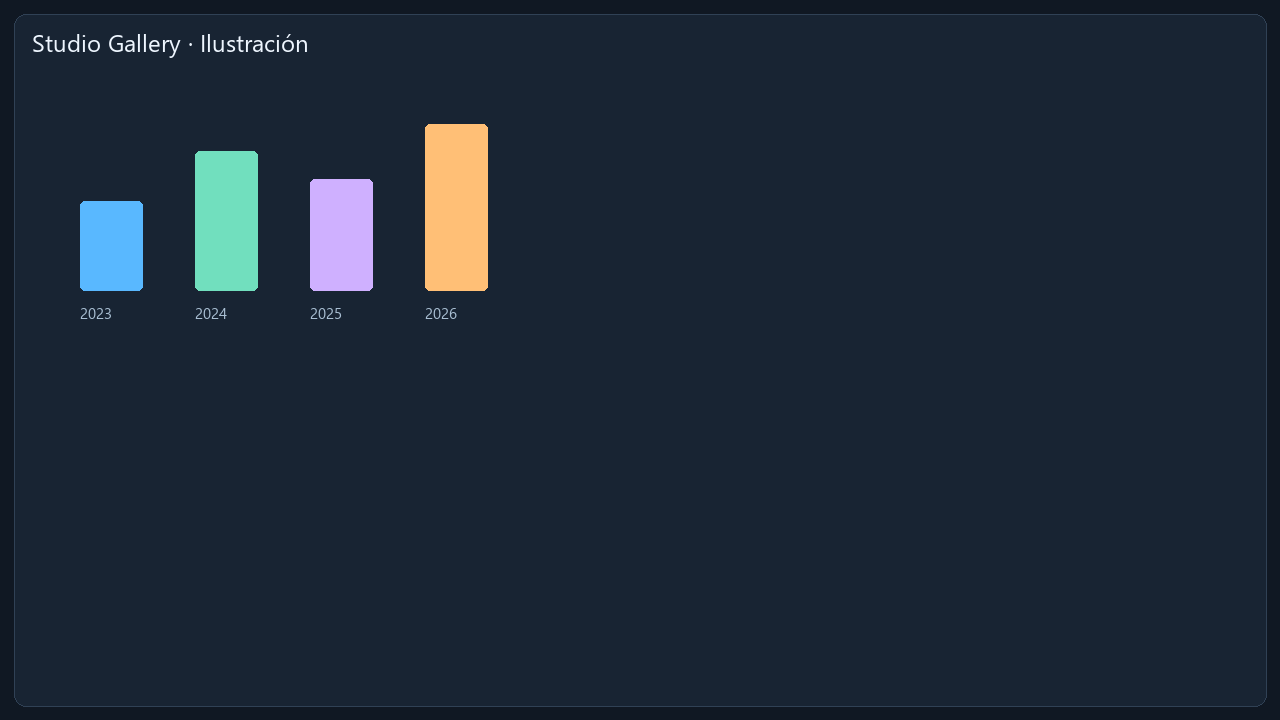
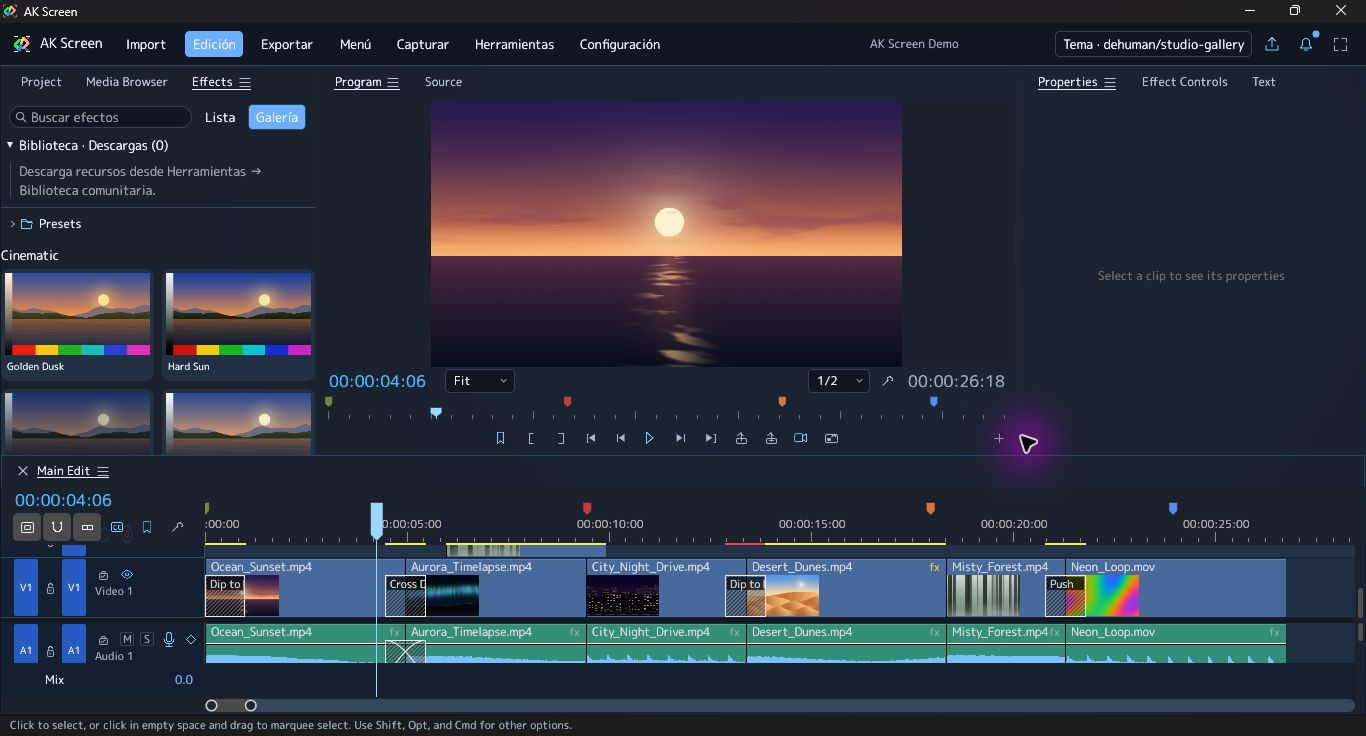
Show real Windows 2.4 screenshot for Studio Gallery

diff --git a/themes/dehuman/studio-gallery/README.md b/themes/dehuman/studio-gallery/README.md
@@ -1,0 +1,13 @@
+# Studio Gallery
+
+Tema de dehuman para AK Screen 2.4.0. La imagen siguiente es una **captura real de la aplicación instalada en Windows**, con medios de demostración generados por el editor.
+
+![Studio Gallery en AK Screen 2.4.0](preview.png)
+
+Incluye 47 colores, 11 medidas, disposición de composición, estilos nativos de la galería de efectos, 24 iconos SVG, tipografía local, fondo WebP original y pantalla de carga animada en GIF.
+
+La cantidad de columnas depende también del ancho disponible del panel. El CSS usa los selectores y propiedades compatibles con el editor nativo; no ejecuta JavaScript.
+
+Puedes previsualizar el paquete desde **Theme Studio → Temas publicados**, crear una variante y conservar sus recursos y licencias al exportar el ZIP. Los cambios de layout y estilos deben comprobarse después dentro de AK Screen.
+
+Consulta [LICENSE.txt](LICENSE.txt) y [FONT_LICENSE.md](FONT_LICENSE.md) antes de redistribuir una variante.
